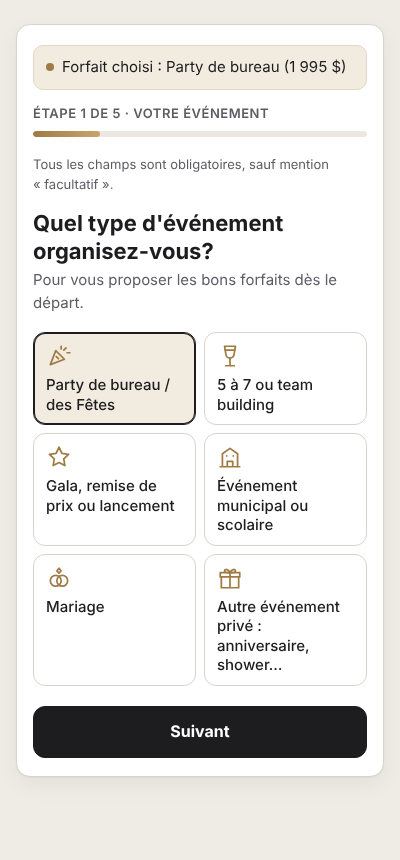
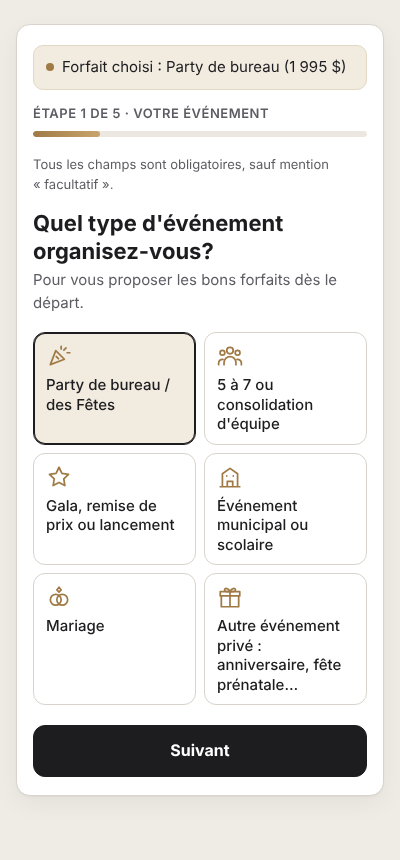
Formulaire : libellés 100 % français, icône sans alcool, boutique Booqable, test dans le dépôt
Claude-Session: https://claude.ai/code/session_01UjrvoVg9J6nJdfG6dhbFfL

diff --git a/site/formulaire-evenox.html b/site/formulaire-evenox.html
@@ -123,7 +123,7 @@
   /* ===================== DONNÉES ===================== */
   var IC = {
     party: '<path d="M4 20l5-13 8 8-13 5z"/><path d="M14 3v2.5M19.5 9H22M16.5 6.5l2-2M9.5 12.5l2 2"/>',
-    glass: '<path d="M7 3h10l-1.2 7.2a3.8 3.8 0 0 1-7.6 0L7 3z"/><path d="M12 14v7M8 21h8M7.6 6.5h8.8"/>',
+    glass: '<circle cx="12" cy="7" r="3"/><circle cx="5" cy="9" r="2.2"/><circle cx="19" cy="9" r="2.2"/><path d="M6.5 20v-2a5.5 5.5 0 0 1 11 0v2M1.5 20v-1.5a3.5 3.5 0 0 1 4-3.4M22.5 20v-1.5a3.5 3.5 0 0 0-4-3.4"/>',
     star: '<path d="M12 3l2.7 5.6 6.1.9-4.4 4.3 1 6.1L12 17l-5.4 2.9 1-6.1L3.2 9.5l6.1-.9z"/>',
     building: '<path d="M3 21h18M5 21V9l7-5 7 5v12M9.5 21v-5h5v5M9 11h.01M15 11h.01"/>',
     rings: '<circle cx="9" cy="14.5" r="5"/><circle cx="15" cy="14.5" r="5"/><path d="M10 5.5L12 3l2 2.5-2 2z"/>',
@@ -131,11 +131,11 @@
   };
   var TYPES = [
     { v: 'corpo_party', l: 'Party de bureau / des Fêtes', seg: 'corpo', ic: 'party' },
-    { v: 'corpo_5a7', l: '5 à 7 ou team building', seg: 'corpo', ic: 'glass' },
+    { v: 'corpo_5a7', l: '5 à 7 ou consolidation d\'équipe', seg: 'corpo', ic: 'glass' },
     { v: 'corpo_gala', l: 'Gala, remise de prix ou lancement', seg: 'corpo', ic: 'star' },
     { v: 'muni_ecole', l: 'Événement municipal ou scolaire', seg: 'corpo', ic: 'building' },
     { v: 'mariage', l: 'Mariage', seg: 'mariage', ic: 'rings' },
-    { v: 'prive', l: 'Autre événement privé : anniversaire, shower…', seg: 'prive', ic: 'gift' }
+    { v: 'prive', l: 'Autre événement privé : anniversaire, fête prénatale…', seg: 'prive', ic: 'gift' }
   ];
   var VILLES = ['Sainte-Thérèse', 'Blainville', 'Boisbriand', 'Rosemère', 'Lorraine', 'Bois-des-Filion', 'Mirabel', 'Saint-Eustache', 'Deux-Montagnes', 'Terrebonne', 'Saint-Jérôme', 'Laval', 'Montréal – centre-ville', 'Montréal – autres arrondissements', 'Longueuil / Rive-Sud', 'Autre (plus de 40 km)'];
   var HORS_ZONE = 'Autre (plus de 40 km)';
